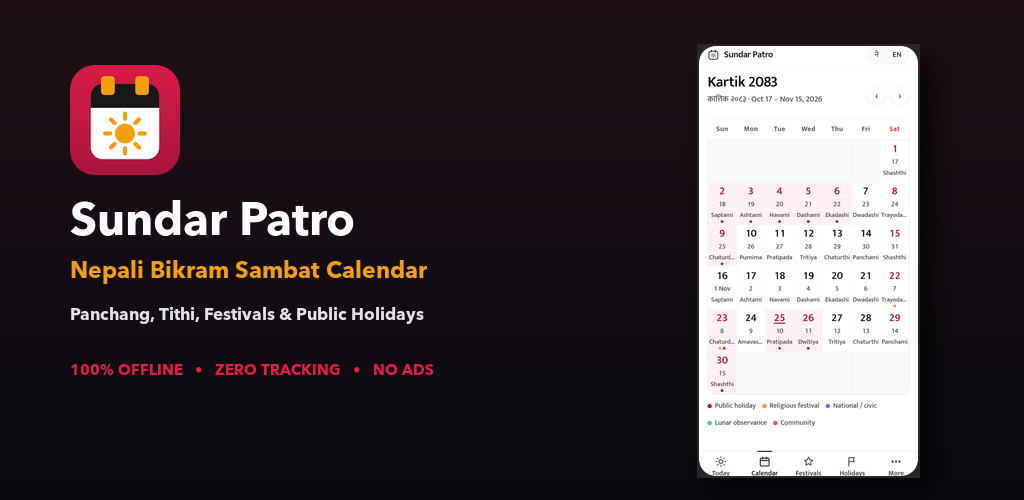
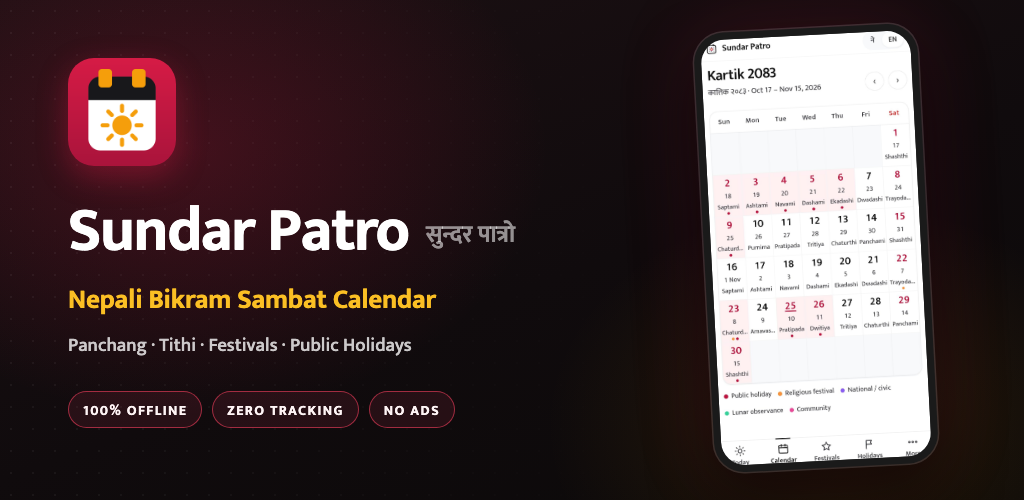
feat(ui): distinct Festivals/Holidays views, nav arrow rings, Auspicious shortcut; refresh feature graphic
- Festivals and Holidays get their own heading, icon and color; Holidays
  shows a monthly summary and one row per day off with weekday and scope
- Accent ring on month nav arrows (Calendar, Festivals, Holidays)
- Auspicious dates button next to Open in calendar on Today
- Feature graphic: refined type, Devanagari name, brighter pill badges

Changed region(s): [[0.0, 0.09, 0.5, 0.75], [0.6562, 0.06, 0.9375, 0.96], [0.0625, 0.78, 0.4688, 0.87]]

diff --git a/app/src/main/assets/index.html b/app/src/main/assets/index.html
@@ -12,7 +12,7 @@
   --primary:#111111; --primary-active:#242424; --on-primary:#ffffff;
   --accent:#3b82f6; --success:#10b981; --warning:#f59e0b; --error:#ef4444;
   --orange:#fb923c; --pink:#ec4899; --violet:#8b5cf6; --emerald:#34d399;
-  --holiday-bg:#fff1f2; --holiday-fg:#be123c; --sat-fg:#dc2626;
+  --holiday-bg:#fff1f2; --holiday-fg:#be123c; --fest-bg:#fef3c7; --fest-fg:#b45309; --sat-fg:#dc2626;
   --shadow-sm:0 1px 2px rgba(0,0,0,.05); --shadow-md:0 4px 12px rgba(0,0,0,.08); color-scheme:light;
   --tag-fav:#047857; --tag-neu:#92400e; --tag-avoid:#b91c1c; --tab-active:#ffffff; --switch-off:#cfd3d9; --switch-on:#111111;
   --font-ui:"Mukta",-apple-system,BlinkMacSystemFont,"Segoe UI",Roboto,sans-serif;
@@ -66,6 +66,11 @@ main{padding-block:32px 64px}
 .head{display:flex;flex-wrap:wrap;align-items:flex-end;justify-content:space-between;gap:16px}
 .head .sub{color:var(--muted);font-size:15px;margin-top:4px}
 .navrow{display:flex;align-items:center;gap:8px}
+.nav-ring{border:2px solid var(--accent);color:var(--accent);font-weight:700}
+.nav-ring:active{box-shadow:0 0 0 5px color-mix(in srgb,var(--accent) 25%,transparent)}
+.nav-ring:focus-visible{outline:2px solid var(--accent);outline-offset:2px}
+@media(prefers-reduced-motion:no-preference){.nav-ring{transition:box-shadow .15s}}
+.t-actions{display:flex;flex-wrap:wrap;gap:8px;margin-top:16px}
 
 .split{display:grid;gap:24px;grid-template-columns:1fr}
 @media(min-width:1024px){.split{grid-template-columns:7fr 5fr;align-items:start}.split.solo{grid-template-columns:1fr}}
@@ -150,6 +155,23 @@ main{padding-block:32px 64px}
 .more-row .dt svg{width:28px;height:28px;fill:none;stroke:currentColor;stroke-width:1.75;stroke-linecap:round;stroke-linejoin:round}
 .more-row .tg{font-size:20px;color:var(--muted)}
 .back{justify-self:start;width:max-content}
+/* festivals vs holidays: each list announces itself with its own icon and color */
+#view-festivals{--kind-fg:var(--fest-fg);--kind-bg:var(--fest-bg)}
+#view-holidays{--kind-fg:var(--holiday-fg);--kind-bg:var(--holiday-bg)}
+#view-festivals .nav-ring,#view-holidays .nav-ring{--accent:var(--kind-fg)}
+.kindhead{display:flex;gap:14px;align-items:flex-start}
+.kindicon{flex:none;width:48px;height:48px;border-radius:14px;background:var(--kind-bg);color:var(--kind-fg);display:grid;place-items:center;margin-top:4px}
+.kindicon svg{width:26px;height:26px;fill:none;stroke:currentColor;stroke-width:2;stroke-linejoin:round;stroke-linecap:round}
+.kindhead h1{color:var(--kind-fg)}
+.kmonth{font-size:20px;font-weight:600;color:var(--ink);margin-top:2px}
+#f-list .row.hol{background:var(--canvas);border-color:var(--hairline)}
+.ksum{margin:0;padding:10px 14px;border-radius:12px;background:var(--kind-bg);color:var(--kind-fg);font-weight:600;font-size:15px}
+.ksum:empty{display:none}
+.hrow{background:var(--holiday-bg);border-color:transparent}
+.hrow .dt{font-size:22px}
+.hrow .dt small{font-size:14px}
+.hrow .pill{background:var(--canvas)}
+.hrow .wd{display:block;font-family:var(--font-ui);font-size:14px;font-weight:700;color:var(--holiday-fg)}
 .monthhead{font-size:14px;font-weight:600;color:var(--muted);letter-spacing:.06em;text-transform:uppercase;margin:16px 0 4px}
 .monthhead:first-child{margin-top:0}
 @media(max-width:480px){.row{grid-template-columns:92px 1fr}.row .tg{grid-column:1/-1;justify-content:flex-start}}
@@ -202,7 +224,7 @@ footer .mark .dot{width:10px;height:10px;border-radius:9999px;background:var(--i
   --hairline:#32322f; --hairline-soft:#262625;
   --ink:#f9f9f7; --body:#f0efea; --muted:#c4c2bb; --muted-soft:#93918a;
   --primary:#f9f9f7; --primary-active:#e4e3de; --on-primary:#151515;
-  --accent:#d97757; --holiday-bg:#2a1a19; --holiday-fg:#ff9a9a; --sat-fg:#ff8f87;
+  --accent:#d97757; --holiday-bg:#2a1a19; --holiday-fg:#ff9a9a; --fest-bg:#2a2214; --fest-fg:#fbbf24; --sat-fg:#ff8f87;
   --tag-fav:#4ade80; --tag-neu:#fbbf24; --tag-avoid:#ff8f87; --tab-active:#313131; --switch-off:#3d3d3b; --switch-on:#c6613f;
   --shadow-sm:0 1px 2px rgba(0,0,0,.4); --shadow-md:0 4px 12px rgba(0,0,0,.5); color-scheme:dark}
 /* Compact More view */
@@ -394,8 +416,8 @@ footer .mark .dot{width:10px;height:10px;border-radius:9999px;background:var(--i
         <div class="sub" id="m-sub">—</div>
       </div>
       <div class="navrow">
-        <button class="btn-icon" id="m-prev" data-al="al.prev">‹</button>
-        <button class="btn-icon" id="m-next" data-al="al.next">›</button>
+        <button class="btn-icon nav-ring" id="m-prev" data-al="al.prev">‹</button>
+        <button class="btn-icon nav-ring" id="m-next" data-al="al.next">›</button>
       </div>
     </div>
     <div class="split" id="m-split">
@@ -419,8 +441,8 @@ footer .mark .dot{width:10px;height:10px;border-radius:9999px;background:var(--i
   <!-- FESTIVALS -->
   <section class="view" id="view-festivals" hidden>
     <div class="head">
-      <div><div class="caption" id="f-eyebrow"></div><h1 class="display-lg ne" id="f-title" aria-live="polite"></h1><div class="sub" id="f-sub"></div></div>
-      <div class="navrow"><button class="btn-icon" id="f-prev" data-al="al.prev">‹</button><button class="btn-icon" id="f-next" data-al="al.next">›</button></div>
+      <div class="kindhead"><span class="kindicon" aria-hidden="true"><svg viewBox="0 0 24 24" focusable="false"><path d="M12 3l2.6 5.4 5.9.8-4.3 4.1 1.1 5.9L12 16.4 6.7 19.2l1.1-5.9L3.5 9.2l5.9-.8z"/></svg></span><div><h1 class="display-lg" id="f-title"></h1><div class="kmonth ne" id="f-month" aria-live="polite"></div><div class="sub" id="f-sub"></div></div></div>
+      <div class="navrow"><button class="btn-icon nav-ring" id="f-prev" data-al="al.prev">‹</button><button class="btn-icon nav-ring" id="f-next" data-al="al.next">›</button></div>
     </div>
     <div class="list" id="f-list"></div>
   </section>
@@ -428,9 +450,10 @@ footer .mark .dot{width:10px;height:10px;border-radius:9999px;background:var(--i
   <!-- HOLIDAYS -->
   <section class="view" id="view-holidays" hidden>
     <div class="head">
-      <div><div class="caption" id="h-eyebrow"></div><h1 class="display-lg ne" id="h-title" aria-live="polite"></h1><div class="sub" id="h-sub"></div></div>
-      <div class="navrow"><button class="btn-icon" id="h-prev" data-al="al.prev">‹</button><button class="btn-icon" id="h-next" data-al="al.next">›</button></div>
+      <div class="kindhead"><span class="kindicon" aria-hidden="true"><svg viewBox="0 0 24 24" focusable="false"><path d="M5 21V4M5 4h11l-2 4 2 4H5"/></svg></span><div><h1 class="display-lg" id="h-title"></h1><div class="kmonth ne" id="h-month" aria-live="polite"></div><div class="sub" id="h-sub"></div></div></div>
+      <div class="navrow"><button class="btn-icon nav-ring" id="h-prev" data-al="al.prev">‹</button><button class="btn-icon nav-ring" id="h-next" data-al="al.next">›</button></div>
     </div>
+    <p class="ksum" id="h-sum"></p>
     <div class="list" id="h-list"></div>
   </section>
 
@@ -705,7 +728,7 @@ const T={
  'about.4h':['Holidays and saait','बिदा र साइत'],
  'about.4p':['Holidays are the ones Nepal usually gazettes, tagged national, valley, women, community or Terai; the cabinet changes the list each year. Saait screening applies the conventions most panchangas share (Chaturmas, Kharmas, Adhik mas, Pitri paksha, Holashtak, rikta tithis, weekdays, nakshatras). It is a shortlist, not a muhurat: confirm the lagna with a jyotishi or the printed patro.','बिदाहरू नेपाल सरकारले सामान्यतया राजपत्रमा प्रकाशन गर्नेहरू हुन्: राष्ट्रिय, उपत्यका, महिला, समुदाय वा तराई; मन्त्रिपरिषद्ले सूची हरेक वर्ष बदल्छ। साइत छनोटमा अधिकांश पञ्चाङ्गका साझा नियम (चातुर्मास, खरमास, अधिक मास, पितृ पक्ष, होलाष्टक, रिक्ता तिथि, बार, नक्षत्र) लागू गरिएका छन्। यो छोटो सूची मात्र हो, मुहूर्त होइन: लग्न ज्योतिषी वा छापिएको पात्रोबाट पक्का गर्नुहोस्।'],
  'legend.hol':['Public holiday','सार्वजनिक बिदा'],'cat.festival':['Religious festival','धार्मिक चाड'],'cat.civic':['National / civic','राष्ट्रिय'],'cat.lunar':['Lunar observance','चान्द्र पर्व'],'cat.community':['Community','समुदाय'],
- 'f.title':['Festivals','चाडपर्व'],'h.title':['Public holidays','सार्वजनिक बिदा'],'to':['to','देखि'],'bs':['BS','वि.सं.'],'none':['No entries.','केही छैन।'],
+ 'f.title':['Festivals','चाडपर्व'],'h.title':['Public holidays','सार्वजनिक बिदा'],'h.onsat':['Falls on Saturday','शनिबार परेको'],'h.none':['No public holidays this month.','यो महिना सार्वजनिक बिदा छैन।'],'to':['to','देखि'],'bs':['BS','वि.सं.'],'none':['No entries.','केही छैन।'],
  'ausp.title':['Auspicious dates','शुभ साइत'],'ausp.sub':['Saait screening for ceremonies','संस्कार र शुभ कार्यका लागि साइत छनोट'],'ausp.ceremony':['Ceremony','कार्य'],'ausp.from':['From','देखि'],'ausp.span':['Months ahead','कति महिना'],
  'ausp.none':['No favourable days in this window. Try a longer span; Chaturmas (roughly July–November) and Kharmas (mid-December to mid-January, mid-March to mid-April) close the season for marriage, bratabandha and griha pravesh.','यस अवधिमा शुभ दिन छैन। लामो अवधि छान्नुहोस्; चातुर्मास (साउन–कात्तिक) र खरमास (पुस र चैत) मा विवाह, व्रतबन्ध र गृहप्रवेश हुँदैन।'],
  'conv.title':['Convert dates','मिति रूपान्तरण'],'conv.sub':['Bikram Sambat ⇄ Gregorian, BS 2000–2092 (AD 1943–2036)','विक्रम सम्वत् ⇄ ईस्वी सम्वत्, वि.सं. २०००–२०९२ (ई.सं. १९४३–२०३६)'],'conv.bs2ad':['BS → AD','वि.सं. → ई.सं.'],'conv.ad2bs':['AD → BS','ई.सं. → वि.सं.'],'conv.year':['Year','वर्ष'],'conv.month':['Month','महिना'],'conv.day':['Day','गते'],'conv.addate':['Gregorian date','ईस्वी मिति'],'conv.range':['Out of range','सीमाभन्दा बाहिर'],'conv.supported':['Supported: 14 April 1943 to 12 April 2036.','समर्थित: १४ अप्रिल १९४३ देखि १२ अप्रिल २०३६।'],
@@ -807,9 +830,10 @@ function renderDay(target,nSel){ target=target||'#daycard'; const n=nSel||selN;
     </dl>
     ${evs.length?`<div class="evlist">${evs.map(e=>`<div class="evitem"><i style="background:${dotCol(e)}"></i><div><div class="t">${EV(e)}${ne_?'':` <span class="ne muted" lang="ne" style="font-weight:500">${e.ne}</span>`}</div><div class="d">${DESC(e)}${e.hol?` · ${hol(e.hol)}`:''}</div></div></div>`).join('')}</div>`:`<div class="muted" style="font-size:15px;margin-top:16px">${t('day.noevent')}</div>`}
     <div class="verdicts">${groupVerdicts(sa).map(g=>`<div class="verdict"><span class="vtag v-${g.v==='favorable'?'fav':g.v==='neutral'?'neu':'avoid'}">${V_T[g.v][ne_?1:0]}</span><div><b>${g.tys.map(ty=>SAAIT_T[ty][ne_?1:0]).join(', ')}</b><div class="v-reasons">${g.why}</div></div></div>`).join('')}</div>
-    ${target==='#todaycard'?`<button type="button" class="btn btn-secondary" id="t-open" style="margin-top:16px">${t('today.open')}</button>`:''}`;
+    ${target==='#todaycard'?`<div class="t-actions"><button type="button" class="btn btn-secondary" id="t-open">${t('today.open')}</button><button type="button" class="btn btn-secondary" id="t-ausp">${t('ausp.title')}</button></div>`:''}`;
   if(target==='#todaycard')tickClocks();
   const op=$('#t-open'); if(op)op.addEventListener('click',()=>{selN=null;cur={y:todayBS.y,m:todayBS.m};showView('month');});
+  const au=$('#t-ausp'); if(au)au.addEventListener('click',()=>showView('auspicious'));
   const cl=$('#dc-close'); if(cl)cl.addEventListener('click',()=>{const was=selN;selN=null;renderMonth();renderDay();const c=$(`.cell[data-n="${was}"]`);if(c)c.focus();});
 }
 /* ============ World clocks: Nepal + up to 2 cities ============ */
@@ -860,13 +884,27 @@ function renderList(kind){ const {y,m}=listM, first=bs2dnum(y,m,1), days=bsDays(
   const ns=[...map.keys()].filter(n=>n>=first&&n<=last).sort((a,b)=>a-b);
   const el=$(kind==='festivals'?'#f-list':'#h-list'); el.innerHTML='';
   const g1=fromDnum(first), g2=fromDnum(last), pre=kind==='festivals'?'f':'h';
-  $('#'+pre+'-title').textContent=`${MON(m-1)} ${N(y)}`;
+  $('#'+pre+'-title').textContent=t(kind==='festivals'?'f.title':'h.title');
+  $('#'+pre+'-month').textContent=`${MON(m-1)} ${N(y)}`;
   const rng=lang==='ne'?`${ne(g1.d)} ${AD_MONTHS_NE[g1.m-1]} – ${ne(g2.d)} ${AD_MONTHS_NE[g2.m-1]} ${ne(g2.y)}`:`${AD_MONTHS[g1.m-1].slice(0,3)} ${g1.d} – ${AD_MONTHS[g2.m-1].slice(0,3)} ${g2.d}, ${g2.y}`;
-  $('#'+pre+'-eyebrow').textContent=t(kind==='festivals'?'f.title':'h.title'); $('#'+pre+'-sub').textContent=rng;
-  for(const n of ns){ const evs=map.get(n).filter(e=>kind==='festivals'?true:!!e.hol); if(!evs.length)continue;
-    for(const e of evs)el.appendChild(eventRow(n,e,DESC(e),(e.hol?`<span class="pill hol">${hol(e.hol)}</span>`:'')+catPill(e))); }
-  if(!el.children.length)el.innerHTML=`<p class="note">${t('none')}</p>`;
+  $('#'+pre+'-sub').textContent=rng;
+  if(kind==='festivals'){
+    for(const n of ns)for(const e of map.get(n))el.appendChild(eventRow(n,e,DESC(e),(e.hol?`<span class="pill hol">${hol(e.hol)}</span>`:'')+catPill(e)));
+  } else {
+    let sat=0;
+    for(const n of ns){ const evs=map.get(n).filter(e=>e.hol); if(!evs.length)continue; const r=holidayRow(n,evs); if(r.dataset.sat)sat++; el.appendChild(r); }
+    const cnt=el.children.length, ne_=lang==='ne';
+    $('#h-sum').textContent=!cnt?'':ne_?`यो महिना ${ne(cnt)} सार्वजनिक बिदा`+(sat?` · ${ne(sat)} शनिबार परेको`:'')
+      :`${cnt} public ${cnt===1?'holiday':'holidays'} this month`+(sat?` · ${sat} ${sat===1?'falls':'fall'} on a Saturday`:'');
+  }
+  if(!el.children.length)el.innerHTML=`<p class="note">${t(kind==='holidays'?'h.none':'none')}</p>`;
 }
+/* Holidays list: one row per day off, led by the weekday and who gets the day off. */
+function holidayRow(n,evs){ const i=dayInfo(n), ne_=lang==='ne', isSat=i.g.dow===6; const r=document.createElement('button'); r.type='button'; r.className='row hrow';
+  if(isSat)r.dataset.sat='1';
+  const scopes=[...new Set(evs.map(e=>e.hol))];
+  r.innerHTML=`<div class="dt">${N(i.bs.d)} ${MON(i.bs.m-1)}<span class="wd">${DOWN(i.g.dow)}</span></div><div class="nm">${evs.map(e=>EV(e)+(ne_?'':` <span class="ne" lang="ne" style="font-weight:400">${e.ne}</span>`)).join('<br>')}<small>${fmtAD(i.g)}</small></div><div class="tg">${scopes.map(h=>`<span class="pill hol">${hol(h)}</span>`).join('')}${isSat?`<span class="pill">${t('h.onsat')}</span>`:''}</div>`;
+  r.addEventListener('click',()=>{selN=n;cur={y:i.bs.y,m:i.bs.m};showView('month');}); return r; }
 function stepList(kind,d){ let {y,m}=listM; m+=d; if(m<1){if(y<=BS_START)return; y--; m=12;} else if(m>12){if(y>=BS_END)return; y++; m=1;} listM={y,m}; renderList(kind); }
 function renderAusp(){ const type=$('#a-type').value, from=$('#a-from').value, span=+$('#a-span').value; const el=$('#a-list'); el.innerHTML='';
   const [fy,fm,fd]=from.split('-').map(Number); let n=dnum(fy,fm,fd); const end=Math.min(n+Math.round(span*30.4),YEAR_START_DAYS[BS.length]-1); let count=0,lastM=-1;
